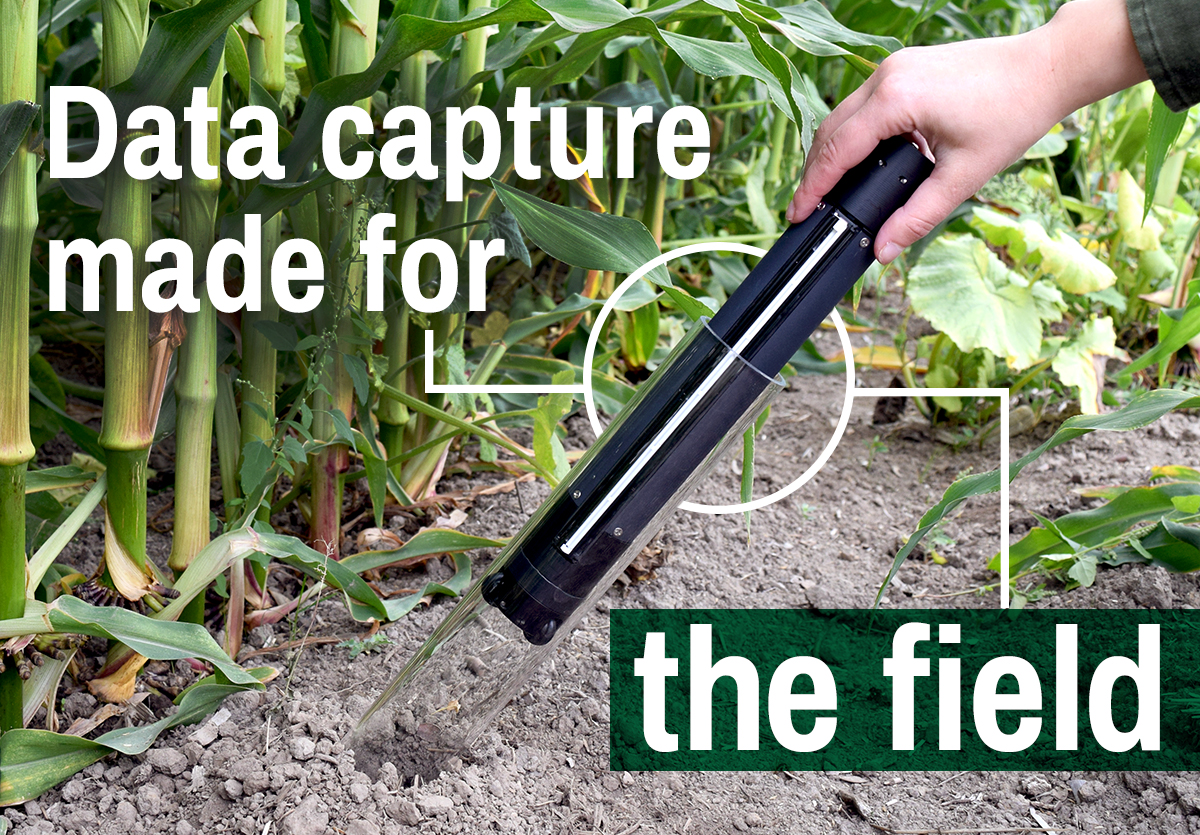
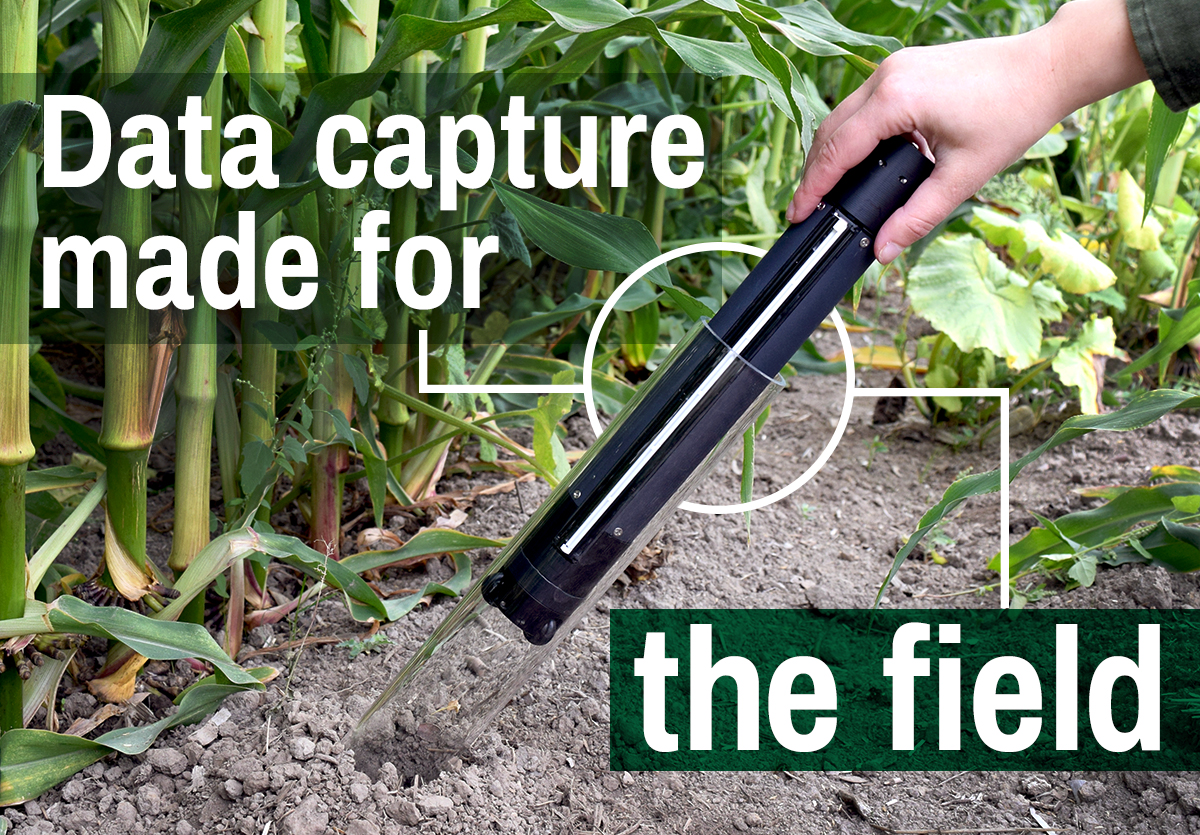
image adjusted, added to layout

diff --git a/src/partials/image-text-cta.html b/src/partials/image-text-cta.html
@@ -11,7 +11,7 @@
         <center>
 
       <a href="">
-         <img src="http://placehold.it/570x375" width="570" class="alt-text main-image" alt="A nice placeholder image">
+         <img src="assets/img/602asa.jpg" width="570" class="alt-text main-image" alt="Data capture made for the field">
       </a>
 
       </center>
